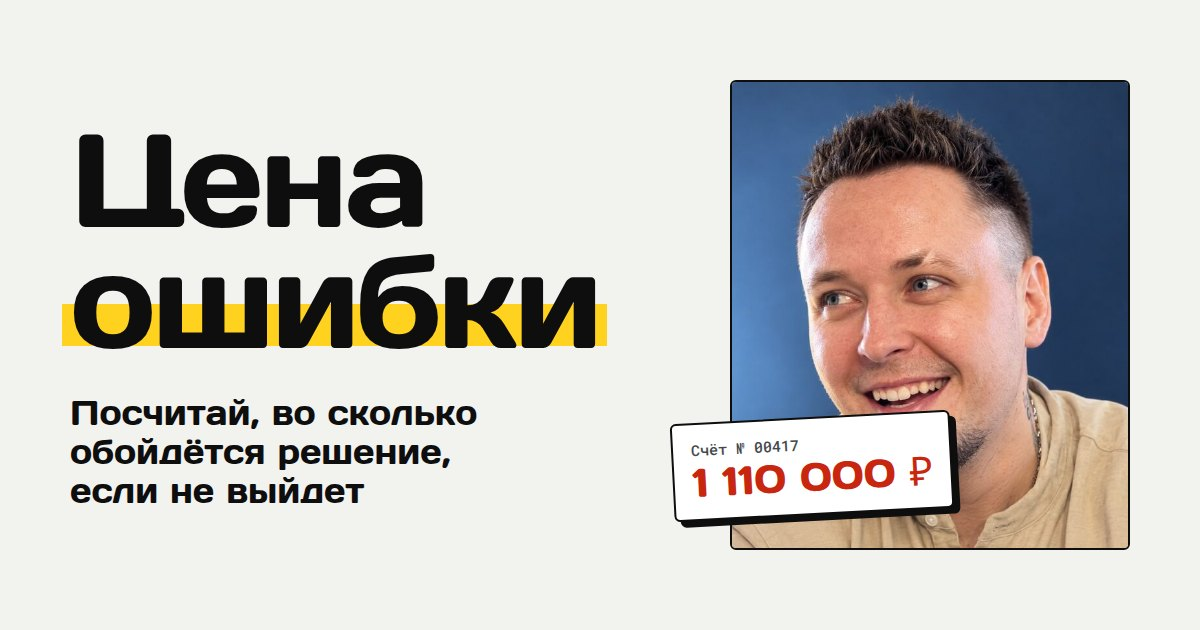
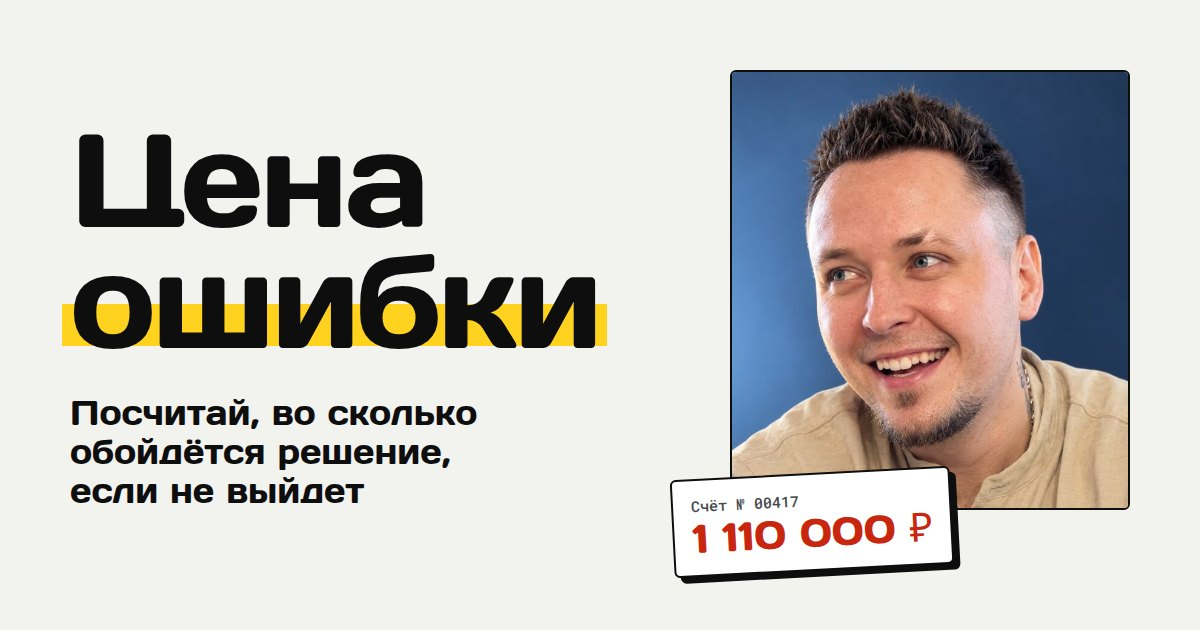
Чек с суммой ушёл с лица на нижний край фото

Changed region(s): [[0.555, 0.0905, 0.9558, 0.9349]]

diff --git a/css/style.css b/css/style.css
@@ -75,14 +75,17 @@ p { margin: 0 0 1em; text-wrap: pretty; }
 
 .subject { position: relative; aspect-ratio: 4 / 5; border-radius: var(--r); background: var(--white); border: 2px solid var(--ink); overflow: hidden; }
 .subject img { width: 100%; height: 100%; object-fit: cover; filter: contrast(1.05); }
-.subject { overflow: visible; }
+.subject { overflow: visible; margin-bottom: 64px; }
+
 .subject img { border-radius: calc(var(--r) - 2px) calc(var(--r) - 2px) 0 0; }
-.subject .stub { position: absolute; left: -28px; bottom: 64px; width: min(260px, 72%); background: var(--white); border: 2px solid var(--ink); border-radius: var(--r); padding: 14px 16px 16px;
-  box-shadow: 6px 6px 0 var(--ink); transform: rotate(-3deg); display: grid; gap: 4px; }
+.subject .stub { position: absolute; left: -28px; bottom: -64px; width: min(260px, 72%); background: var(--white); border: 2px solid var(--ink); border-radius: var(--r); padding: 14px 16px 16px;
+  box-shadow: 6px 6px 0 var(--ink); transform: rotate(-3deg); display: grid; gap: 4px; z-index: 2; }
+
 .subject .stub .mono { color: var(--ink2); font-size: 13px; }
 .subject .stub b { font: 400 30px/1 var(--display); color: var(--red); font-variant-numeric: tabular-nums; white-space: nowrap; }
 .subject .stub span:last-child { font-size: 15px; line-height: 1.3; }
 .subject .ruler { position: absolute; left: 0; right: 0; bottom: 0; height: 40px; border-radius: 0 0 calc(var(--r) - 2px) calc(var(--r) - 2px); background: var(--ink); color: var(--on-night); display: flex; align-items: center; justify-content: space-between; padding: 0 14px; }
+.subject .ruler.end { justify-content: flex-end; }
 
 .telemetry { display: grid; grid-template-columns: repeat(4, 1fr); gap: 0; margin-top: 48px; border-top: 2px solid var(--ink); }
 .telemetry div { padding: 14px 16px 0 0; }
@@ -281,6 +284,10 @@ p { margin: 0 0 1em; text-wrap: pretty; }
   .telemetry { grid-template-columns: 1fr 1fr; row-gap: 12px; }
   .btn { width: 100%; }
   .top { background: var(--lab); border-bottom: 2px solid var(--ink); }
+  .subject { margin-bottom: 92px; }
+  .subject .stub { left: auto; right: -16px; bottom: -82px; width: min(250px, 82%); }
+  .subject .ruler { display: none; }
+  .subject img { border-radius: calc(var(--r) - 2px); }
   .top .wrap { height: 64px; }
   .top .btn { width: auto; padding: 0 12px; font-size: 15px; }
   .logo { font-size: 16px; }

diff --git a/index.html b/index.html
@@ -56,7 +56,7 @@
           <b>1 110 000 ₽</b>
           <span>столько стоит ошибка «уйду из банка в кофейню»</span>
         </div>
-        <figcaption class="ruler mono"><span>Андрей Хард</span><span>@hard_andrei</span></figcaption>
+        <figcaption class="ruler end mono"><span>@hard_andrei</span></figcaption>
       </figure>
     </div>
     <div class="telemetry rise">
